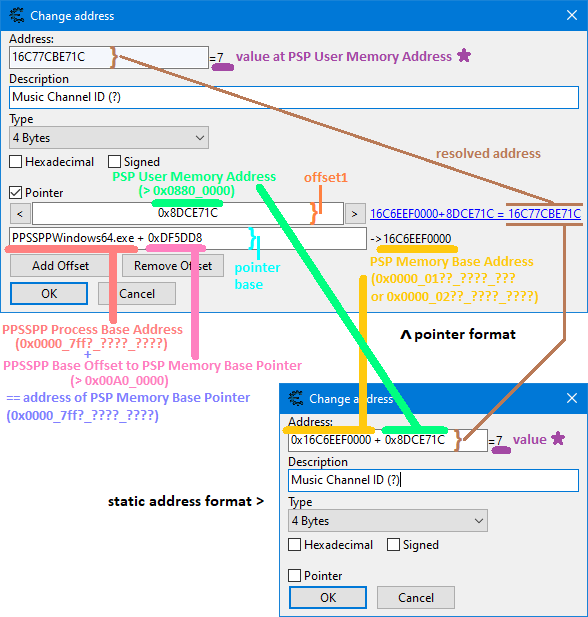
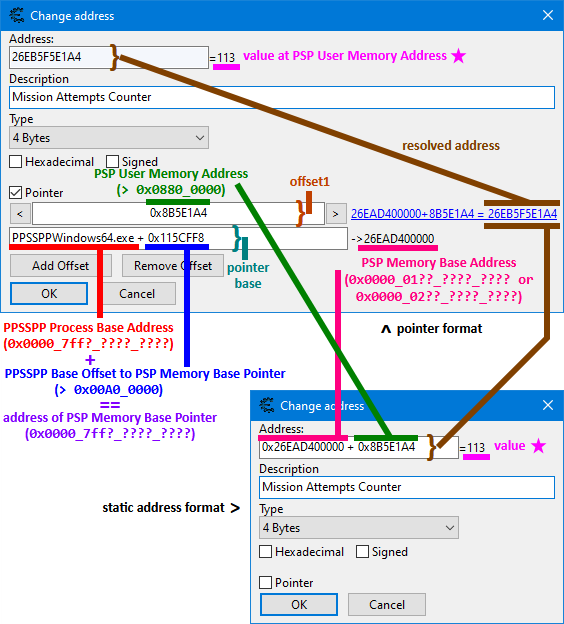
Update process-hacking images

Changed region(s): [[0.0, 0.0, 1.0, 1.0], [0.9645, 0.0, 0.9947, 0.0308]]

diff --git a/docs/reference/process-hacks.md b/docs/reference/process-hacks.md
@@ -65,7 +65,7 @@ Memory addresses in Cheat Engine can be saved either in static address format or
 Pointer format is preferred, because it will keep the memory address valid throughout multiple sessions, as long as you don't switch PPSSPP versions.
 
 Here is an illustration of memory addresses using the terminology above:
-<img src="/static/img/docs/process_hacking/PPSSPP_CE.png" alt="Visual illustration of Cheat Engine memory addresses using the aforementioned terminology">
+<img src="/static/img/docs/process_hacking/ce_memory_address.png" alt="Visual illustration of Cheat Engine memory addresses using the aforementioned terminology">
 
 ### Working with ingame pointers and objects
 
@@ -74,10 +74,10 @@ The pointer to the start of an object can be saved as such, but in order to calc
 
 In the example below we have the object members saved as dummy memory addresses, all children of a Lua script.
 The idea is to calculate the addresses of the object members and display the memory addresses when the Lua script is activated.
-<img src="/static/img/docs/process_hacking/PPSSPP_CE_Dummy_Addresses.png" alt="Ingame object members saved in Cheat Engine as dummy memory addresses">
+<img src="/static/img/docs/process_hacking/ce_dummy_entries.png" alt="Ingame object members saved in Cheat Engine as dummy memory addresses">
 
 Here is the said Lua script:
-<img src="/static/img/docs/process_hacking/PPSSPP_CE_Pointer_Lua.png" alt="Example of a Lua script to calculate the addresses of object members">
+<img src="/static/img/docs/process_hacking/ce_pointer_script.png" alt="Example of a Lua script to calculate the addresses of object members">
 (In the screenshot the base pointer is calculated using a manually retrieved base offset.)
 
 This method will work throughout mutliple sessions.
